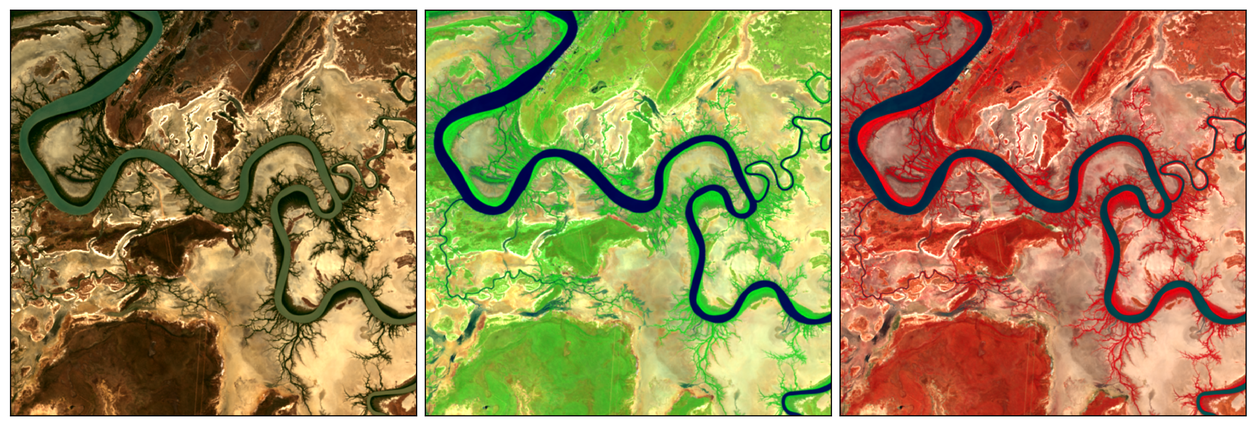
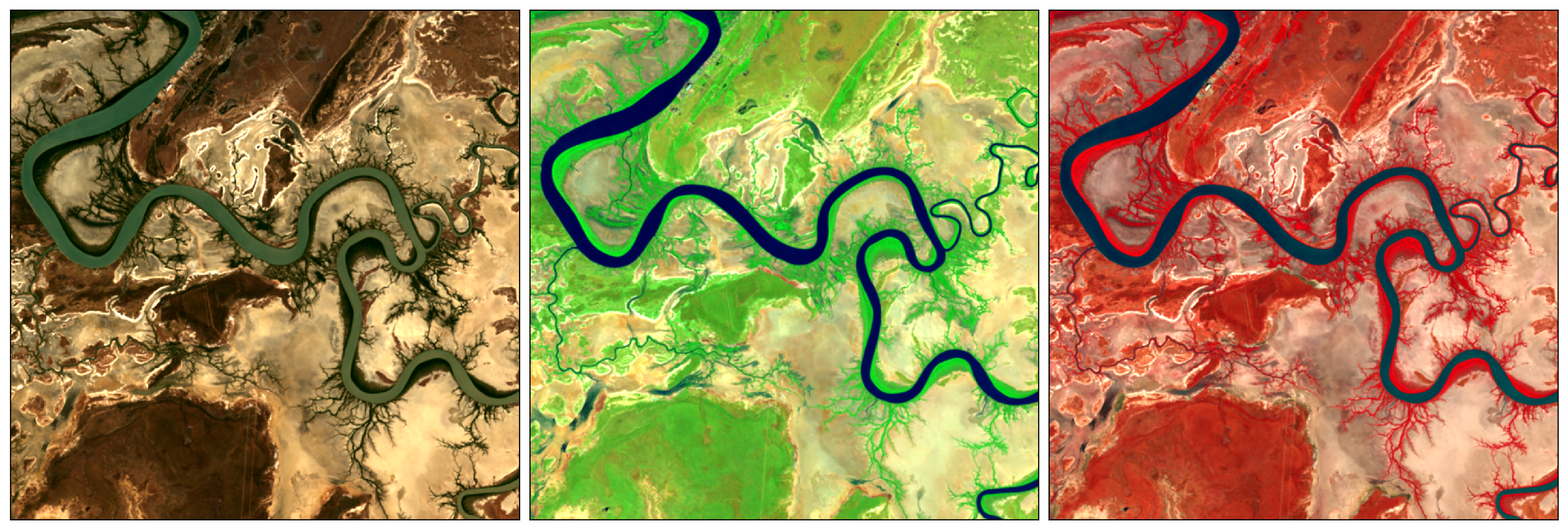
add a rasterize-vectorize figure

Changed region(s): [[0.0, 0.0, 0.995, 0.9854], [0.4975, 0.5543, 0.5286, 0.5851]]

diff --git a/Tools/paper/paper.md b/Tools/paper/paper.md
@@ -78,9 +78,11 @@ The package enables users to:
 
 The broader `dea-notebooks` repository, which includes `dea-tools`, provides extensive documentation as Jupyter notebooks including how-to guides and longer 'real-world' application examples. These include end-to-end workflows that demonstrate how to acquire satellite data via [odc-stac](https://github.com/opendatacube/odc-stac), process it using `dea-tools`, and visualize outputs interactively within JupyterLab. Together, `dea-tools` and `dea-notebooks` offer a reproducible, and fully managed framework for geospatial analysis in Python — bridging the gap between foundational geospatial libraries and applied EO research.
 
+![`dea-tools` enables easy transitions between xarray and geopandas with the `xr_rasterize` and `xr_vectorize` functions.\label{fig:raster-vector}](figures/rasterize_vectorize.png)
+
 # Features
 
-Below we highlight a non-exhaustive list of funtionality within `dea-tools`. Note that each of the functions listed below has an accompanying Jupyter notebook outlining how to use the function.
+Below we highlight a non-exhaustive list of functionality within `dea-tools`. Note that each of the functions listed below has an accompanying Jupyter notebook outlining how to use the function.
 
 ## Analytical tools native to Xarray
 
